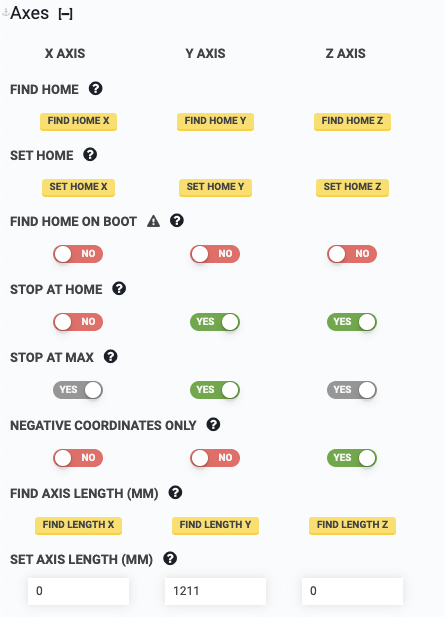
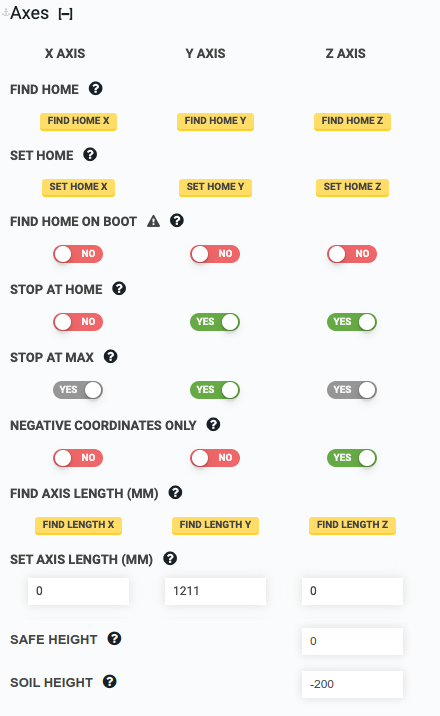
update parameter management section

diff --git a/v12/The-FarmBot-Web-App/settings/parameter-management.md b/v12/The-FarmBot-Web-App/settings/parameter-management.md
@@ -1,0 +1,44 @@
+---
+title: "Parameter Management"
+slug: "parameter-management"
+description: "[Open these settings in the app](https://my.farm.bot/app/designer/settings?highlight=parameter_management)"
+---
+
+* toc
+{:toc}
+
+![parameter management](_images/parameter_management.png)
+
+# Parameter load progress
+
+The progress bar shows the percentage of parameters that FarmBot has received.
+When a setting is changed, this will briefly drop below 100% as the parameter
+is saved and synced to your device.
+
+# Resend parameters
+
+If the __PARAMETER LOAD PROGRESS__ bar does not reach 100% within a few
+minutes of changing a setting, press <span class="fb-button fb-yellow">RESEND</span>
+to send the parameters to FarmBot again.
+
+# Export parameters
+
+Press the <i class='fa fa-download'></i> icon to view all parameter data
+in a format that can be copied and pasted to share with others or save for later use.
+
+![export parameters](_images/export_parameters.png)
+
+# Import parameters
+
+Parameter data from the __EXPORT PARAMETERS__ button can be imported into your account
+by pasting it into the input field and pressing <span class="fb-button fb-yellow">IMPORT</span>.
+Imported data will replace all parameters in your account.
+
+# Highlight settings modified from default
+
+Enable this toggle to show a high-visibility border around every parameter
+that differs from the default value. Default values for individual parameters
+are available in the <i class='fa fa-question-circle'></i> tooltip for the parameter.
+
+# Reset hardware parameters
+This will restore all settings to their default values, as shown in each setting's tooltip.

diff --git a/v12/The-FarmBot-Web-App/settings/axes.md b/v12/The-FarmBot-Web-App/settings/axes.md
@@ -80,3 +80,8 @@ title="Reminder"
 content="The length values of each axis are measured and auto-filled whenever your use the [find axis length](#find-axis-length) function."
 %}
 
+# Safe Height
+Z axis coordinate (millimeters) to which the z axis should be retracted during Safe Z moves. It is recommended to choose a value at which the z axis is all of the way up to provide as much clearance as possible. This value can be used by <span class="fb-step fb-move">Move</span> sequence commands by enabling _Safe Z_ or selecting _Safe Height_ as the z-axis override.
+
+# Soil Height
+Z axis coordinate (millimeters) of the soil. This value can be used by <span class="fb-step fb-move">Move</span> sequence commands by selecting _Soil Height_ as the x-axis override.

diff --git a/v12/The-FarmBot-Web-App/settings.md b/v12/The-FarmBot-Web-App/settings.md
@@ -23,5 +23,5 @@ The settings panel contains a bunch of settings that determine how FarmBot moves
  * [Pin Bindings](settings/pin-bindings.md)
  * [Pin Guard](settings/pin-guard.md)
  * [Error Handling](settings/error-handling.md)
- * [Parameter Management](settings/danger-zone.md)
+ * [Parameter Management](settings/parameter-management.md)
  * [Farm Designer Settings](settings/farm-designer-settings.md)

diff --git a/_redirects/danger-zone.md b/_redirects/danger-zone.md
@@ -1,5 +1,5 @@
 ---
 permalink: /docs/danger-zone
-page_path: /The-FarmBot-Web-App/settings/danger-zone
+page_path: /The-FarmBot-Web-App/settings/parameter-management
 layout: redirect
 ---
